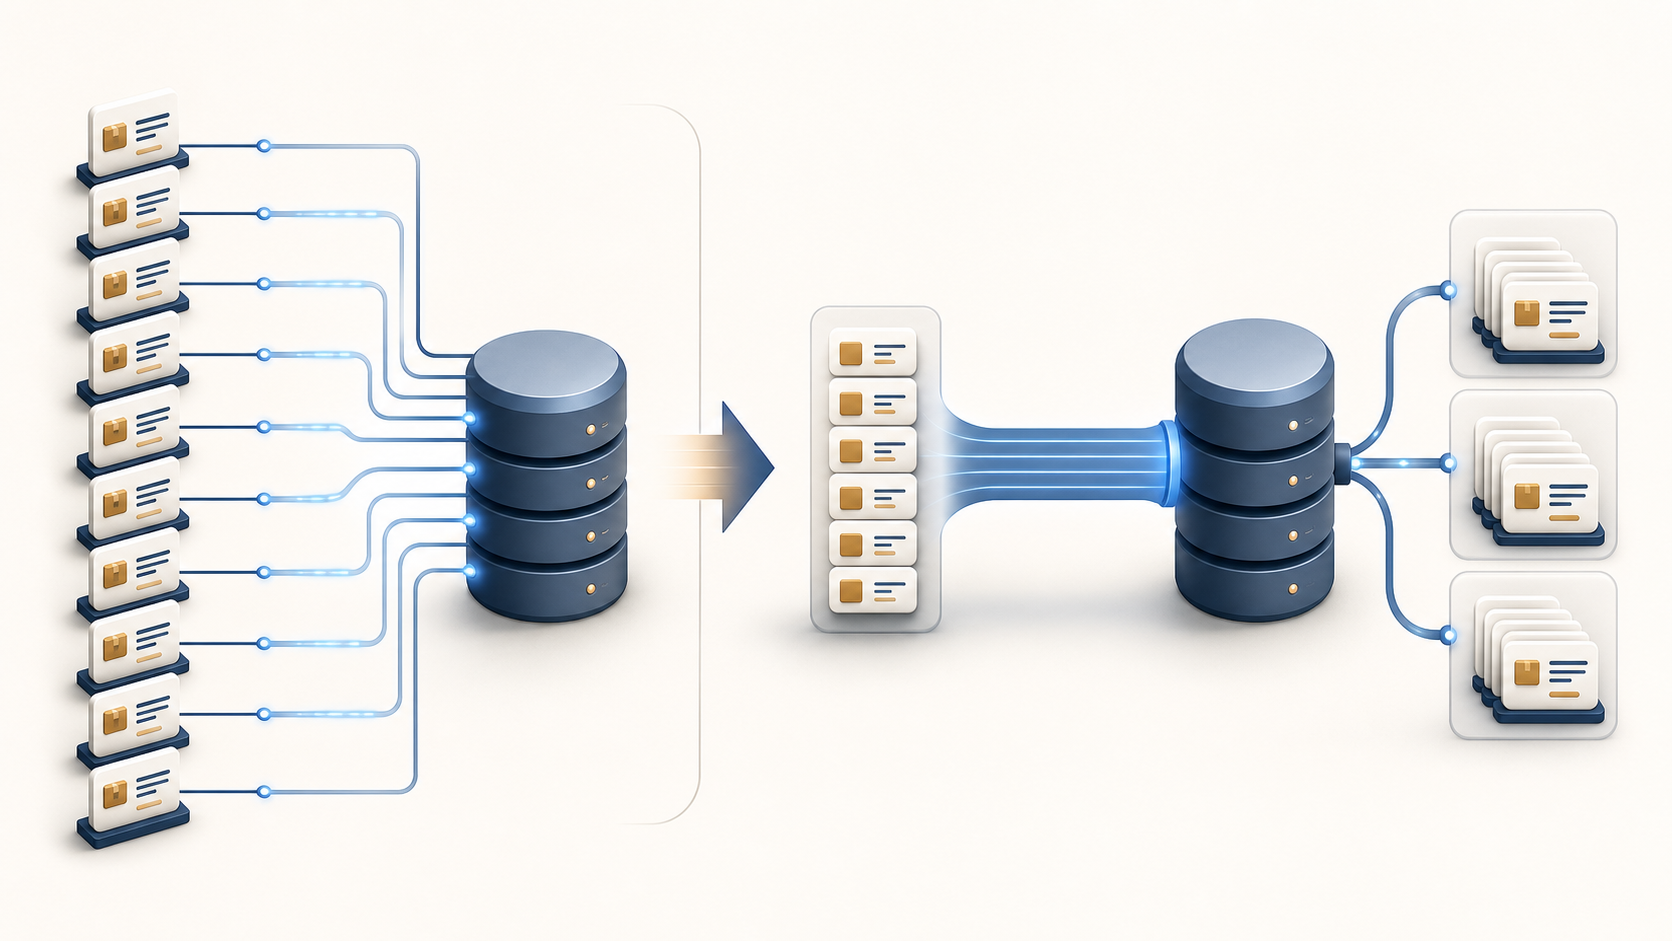
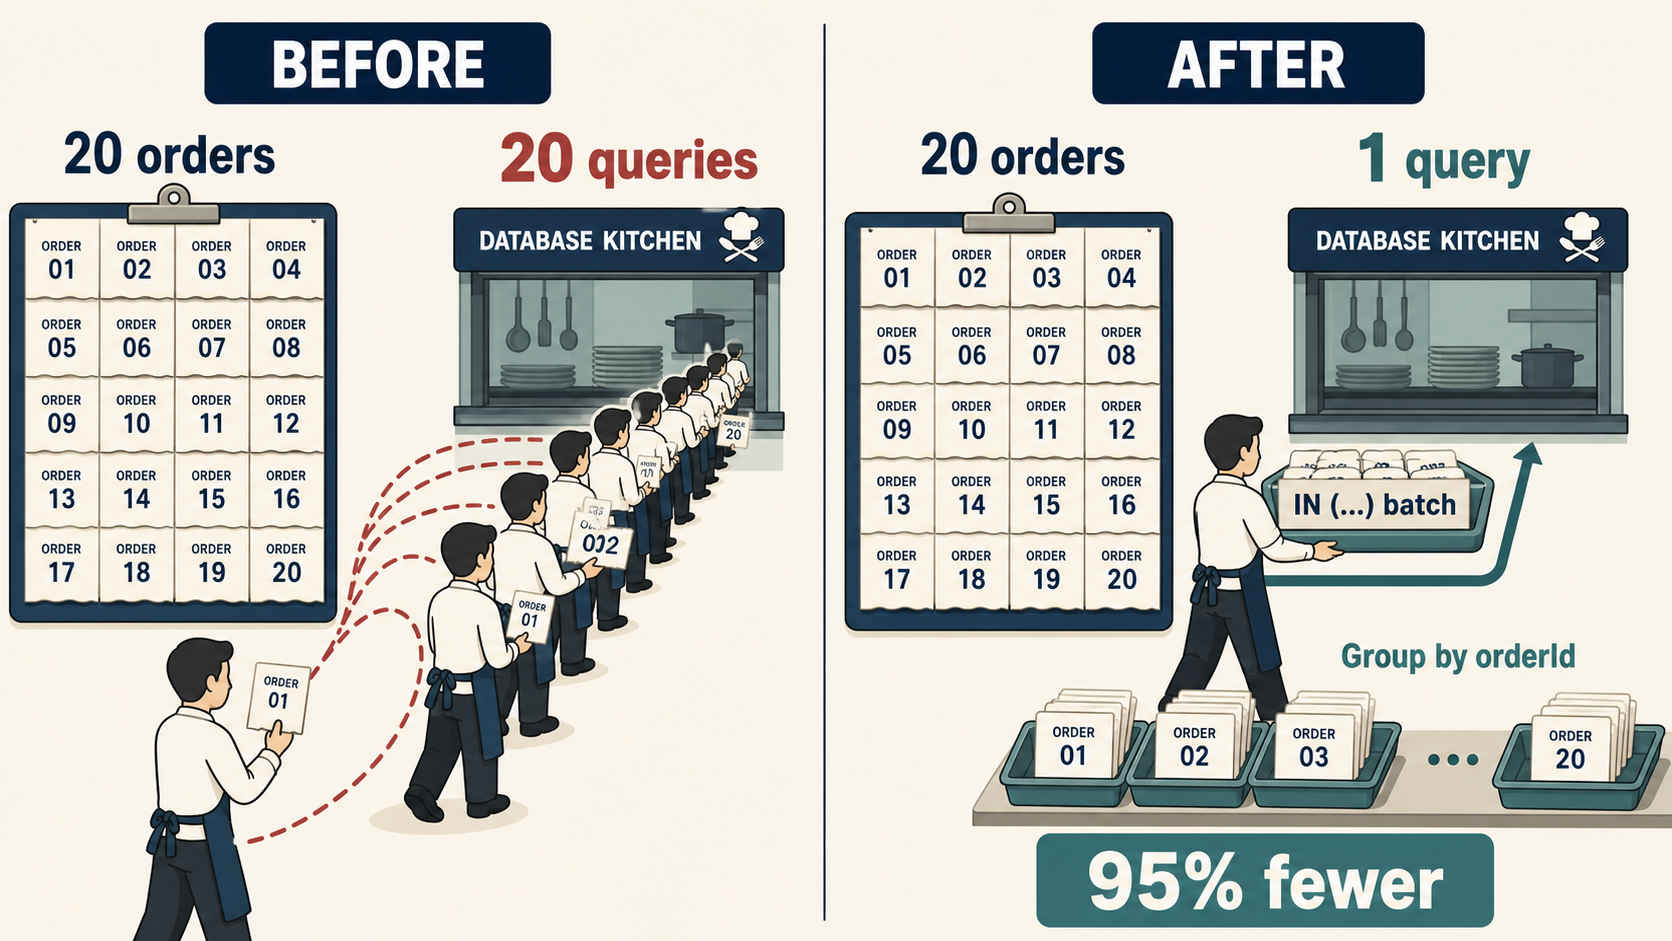
Improve portfolio problem-solving visuals

diff --git a/portfolio.html b/portfolio.html
@@ -333,7 +333,7 @@
       grid-template-rows: auto 1fr;
       min-height: 0;
       border: 2px solid #0e2b4c;
-      background: rgba(255, 252, 244, 0.58);
+      background: #fbfaf7;
       overflow: hidden;
     }
 
@@ -352,8 +352,45 @@
       width: 100%;
       height: 100%;
       min-height: 0;
-      object-fit: cover;
+      object-fit: contain;
       object-position: top center;
+    }
+
+    #slide-20 .overview-grid {
+      margin-top: 0.16in !important;
+    }
+
+    #slide-20 .shot-panel {
+      min-height: 5.05in;
+    }
+
+    #slide-20 .info-panel {
+      gap: 0.07in;
+    }
+
+    #slide-20 .info-card {
+      padding: 0.12in 0.16in;
+    }
+
+    #slide-20 .info-card h3 {
+      margin-bottom: 6px;
+      font-size: 18px;
+    }
+
+    #slide-20 .info-card p,
+    #slide-20 .info-card li {
+      font-size: 15.5px;
+      line-height: 1.36;
+    }
+
+    #slide-20 .tag-list {
+      gap: 6px;
+      margin-top: 6px;
+    }
+
+    #slide-20 .tag {
+      padding: 4px 8px;
+      font-size: 12.5px;
     }
 
     .screenshot-grid {
@@ -466,6 +503,7 @@
 
     .diagram-card {
       display: flex;
+      flex-direction: column;
       align-items: center;
       justify-content: center;
       min-height: 5.42in;
@@ -1015,7 +1053,8 @@
     .generated-visual {
       position: relative;
       width: 100%;
-      min-height: 5.05in;
+      height: 4.82in;
+      min-height: 4.82in;
       overflow: hidden;
       border: 2px solid #0e2b4c;
       background: #fbf7ef;
@@ -1025,8 +1064,19 @@
       display: block;
       width: 100%;
       height: 100%;
-      min-height: 5.05in;
+      min-height: 4.82in;
       object-fit: contain;
+    }
+
+    .image-credit {
+      width: 100%;
+      margin: 0.055in 0 0;
+      color: #8a96a4;
+      font-size: 10.5px;
+      font-weight: 500;
+      line-height: 1.25;
+      letter-spacing: 0;
+      text-align: center;
     }
 
     .visual-chip {
@@ -1459,25 +1509,10 @@
       <h2 class="title-md">XML·Compose 혼용 UI 개선 / State Hoisting 구조화</h2>
       <div class="problem-layout" style="margin-top: 0.24in;">
         <div class="diagram-card">
-          <div class="layer-diagram">
-            <div class="layer-grid">
-              <div class="layer-box">
-                <div class="layer-title">기존 화면</div>
-                <div class="messy-item">XML View</div>
-                <div class="messy-item">Compose UI</div>
-                <div class="messy-item">ViewModel / Navigation</div>
-                <div class="messy-item">텍스트·버튼·상태 처리</div>
-              </div>
-              <div class="layer-arrow">→</div>
-              <div class="layer-box">
-                <div class="layer-title">재구성한 화면</div>
-                <div class="clean-layer is-core">Route<small>상태 생성 · 의미 결정</small></div>
-                <div class="clean-layer">Screen<small>레이아웃 조립</small></div>
-                <div class="clean-layer">Component<small>재사용 UI 조각</small></div>
-              </div>
-            </div>
-            <div class="flow-caption">화면별 혼재 로직을 계층으로 분리해 수정 범위와 중복을 줄임</div>
+          <div class="generated-visual">
+            <img src="public/screenshot/naenun-state-hoisting-visual.png" alt="한 화면의 네 가지 책임을 외부 상태 제어와 세 계층으로 분리한 전후 이미지" />
           </div>
+          <p class="image-credit">ChatGPT로 제작한 이미지입니다.</p>
         </div>
         <div class="content-stack">
           <div class="compact-card">
@@ -1521,42 +1556,10 @@
       <h2 class="title-md">레거시 패키지 구조 재편</h2>
       <div class="problem-layout" style="margin-top: 0.24in;">
         <div class="diagram-card">
-          <div class="package-diagram">
-            <div class="package-compare">
-              <div class="package-box">
-                <div class="diagram-title">기존 구조</div>
-                <div class="legacy-map">
-                  <div class="legacy-chip" style="left: 12px; top: 18px;">AppActivity</div>
-                  <div class="legacy-chip" style="right: 20px; top: 36px;">Screen</div>
-                  <div class="legacy-chip" style="left: 64px; top: 112px;">Navigation</div>
-                  <div class="legacy-chip" style="right: 38px; top: 138px;">Manager</div>
-                  <div class="legacy-chip" style="left: 22px; bottom: 44px;">ViewModel</div>
-                  <div class="legacy-chip" style="right: 10px; bottom: 22px;">UI Model</div>
-                </div>
-              </div>
-              <div class="layer-arrow">→</div>
-              <div class="package-box">
-                <div class="diagram-title">기능·계층 기준 재구성</div>
-                <div class="feature-stack">
-                  <div class="feature-layer is-core">Feature<small>기능 단위 분리</small></div>
-                  <div class="feature-row">
-                    <div class="feature-layer">Route</div>
-                    <div class="feature-layer">Screen</div>
-                  </div>
-                  <div class="feature-row">
-                    <div class="feature-layer">Component</div>
-                    <div class="feature-layer">ViewModel</div>
-                  </div>
-                  <div class="feature-row">
-                    <div class="feature-layer">Domain</div>
-                    <div class="feature-layer">Model</div>
-                  </div>
-                  <div class="feature-layer is-core">Core<small>공통 로직 분리</small></div>
-                </div>
-              </div>
-            </div>
-            <div class="flow-caption">뒤섞인 화면·로직·데이터를 기능 단위로 나누고 의존성 방향을 명확히 정리</div>
+          <div class="generated-visual">
+            <img src="public/screenshot/naenun-package-refactor-visual.png" alt="순환 참조가 얽힌 레거시 서랍을 Feature와 Core 구조로 정리한 전후 이미지" />
           </div>
+          <p class="image-credit">ChatGPT로 제작한 이미지입니다.</p>
         </div>
         <div class="content-stack">
           <div class="compact-card">
@@ -1597,26 +1600,10 @@
       <h2 class="title-md">메모리 누수 개선</h2>
       <div class="problem-layout" style="margin-top: 0.24in;">
         <div class="diagram-card">
-          <div class="leak-diagram">
-            <div class="leak-flow">
-              <div class="leak-column">
-                <div class="diagram-title">누수 원인</div>
-                <div class="leak-step">Singleton 남용<small>긴 생명주기 객체</small></div>
-                <div class="leak-step">Activity Context 참조<small>짧은 생명주기 보유</small></div>
-                <div class="leak-step">Listener 미해제<small>Callback 참조 유지</small></div>
-                <div class="leak-step">순환 참조<small>객체 해제 지연</small></div>
-              </div>
-              <div class="layer-arrow">→</div>
-              <div class="leak-column">
-                <div class="diagram-title">정리한 구조</div>
-                <div class="leak-step is-core">Application Context<small>Context 보유 범위 조정</small></div>
-                <div class="leak-step">Hilt DI<small>Singleton 사용 최소화</small></div>
-                <div class="leak-step">onDispose / onCleared<small>Listener·리소스 해제</small></div>
-                <div class="leak-step">WeakReference<small>순환 참조 완화</small></div>
-              </div>
-            </div>
-            <div class="flow-caption">생명주기보다 오래 남는 참조를 제거해 장시간 실행 환경의 메모리 누수 위험을 낮춤</div>
+          <div class="generated-visual">
+            <img src="public/screenshot/naenun-memory-leak-visual.png" alt="종료된 Activity에 남은 참조와 Listener를 해제해 메모리를 반환한 전후 이미지" />
           </div>
+          <p class="image-credit">ChatGPT로 제작한 이미지입니다.</p>
         </div>
         <div class="content-stack">
           <div class="compact-card">
@@ -1752,31 +1739,10 @@
       <h2 class="title-md">6개 API 병렬 처리와 부분 실패 대응</h2>
       <div class="problem-layout" style="margin-top: 0.24in;">
         <div class="diagram-card">
-          <div class="timeline-diagram">
-            <div class="timeline-panel">
-              <div class="timeline-head"><span>Before · 순차 호출</span><span>약 356ms</span></div>
-              <div class="timeline-track">
-                <div class="timeline-lane"><span class="lane-label">CPU</span><span class="lane-line"><span class="time-bar" style="left: 0%; width: 16%;"></span></span></div>
-                <div class="timeline-lane"><span class="lane-label">Memory</span><span class="lane-line"><span class="time-bar" style="left: 17%; width: 16%;"></span></span></div>
-                <div class="timeline-lane"><span class="lane-label">Network R</span><span class="lane-line"><span class="time-bar" style="left: 34%; width: 16%;"></span></span></div>
-                <div class="timeline-lane"><span class="lane-label">Network T</span><span class="lane-line"><span class="time-bar" style="left: 51%; width: 16%;"></span></span></div>
-                <div class="timeline-lane"><span class="lane-label">Event</span><span class="lane-line"><span class="time-bar" style="left: 68%; width: 15%;"></span></span></div>
-                <div class="timeline-lane"><span class="lane-label">AI</span><span class="lane-line"><span class="time-bar" style="left: 84%; width: 16%;"></span></span></div>
-              </div>
-            </div>
-            <div class="timeline-panel">
-              <div class="timeline-head"><span>After · supervisorScope + async</span><span>약 156ms</span></div>
-              <div class="timeline-track">
-                <div class="timeline-lane"><span class="lane-label">CPU</span><span class="lane-line"><span class="time-bar is-active" style="left: 0%; width: 40%;"></span></span></div>
-                <div class="timeline-lane"><span class="lane-label">Memory</span><span class="lane-line"><span class="time-bar is-active" style="left: 0%; width: 38%;"></span></span></div>
-                <div class="timeline-lane"><span class="lane-label">Network R</span><span class="lane-line"><span class="time-bar is-active" style="left: 0%; width: 36%;"></span></span></div>
-                <div class="timeline-lane"><span class="lane-label">Network T</span><span class="lane-line"><span class="time-bar is-active" style="left: 0%; width: 37%;"></span></span></div>
-                <div class="timeline-lane"><span class="lane-label">Event</span><span class="lane-line"><span class="time-bar is-active" style="left: 0%; width: 34%;"></span></span></div>
-                <div class="timeline-lane"><span class="lane-label">AI</span><span class="lane-line"><span class="time-bar is-active" style="left: 0%; width: 40%;"></span></span></div>
-              </div>
-              <div class="timeline-result">동시에 시작 · 부분 실패 허용 · 가장 늦은 작업 기준 완료 · 56% 단축</div>
-            </div>
+          <div class="generated-visual">
+            <img src="public/screenshot/more-parallel-api-visual.png" alt="6개 API를 한 줄 대기에서 병렬 처리로 바꿔 356ms를 156ms로 단축한 전후 이미지" />
           </div>
+          <p class="image-credit">ChatGPT로 제작한 이미지입니다.</p>
         </div>
         <div class="content-stack">
           <div class="compact-card">
@@ -1821,22 +1787,10 @@
       <h2 class="title-md">Convention Plugin 기반 멀티 모듈 빌드 표준화</h2>
       <div class="problem-layout" style="margin-top: 0.24in;">
         <div class="diagram-card">
-          <div class="build-diagram">
-            <div class="build-core">build-logic<small>공통 빌드 설정과 의존성을 모듈 밖에서 중앙 관리</small></div>
-            <div class="plugin-grid">
-              <div class="plugin-tile">mori.android.feature<small>Compose · Hilt · Orbit · Test</small></div>
-              <div class="plugin-tile">mori.android.core<small>Android/Kotlin 기본 설정</small></div>
-              <div class="plugin-tile">mori.android.network<small>Retrofit · OkHttp · MockWebServer</small></div>
-              <div class="plugin-tile">mori.android.datastore<small>DataStore · Serialization</small></div>
-            </div>
-            <div class="module-strip">
-              <div class="module-pill">feature-dashboard</div>
-              <div class="module-pill">feature-instance</div>
-              <div class="module-pill">core-domain</div>
-              <div class="module-pill">core-network</div>
-            </div>
-            <div class="flow-caption">모듈은 플러그인 한 줄만 적용하고, 설정 변경은 build-logic 한 곳에서 반영</div>
+          <div class="generated-visual">
+            <img src="public/screenshot/more-build-logic-visual.png" alt="하나의 Convention Plugin 설정을 모든 모듈에 동일하게 적용하는 이미지" />
           </div>
+          <p class="image-credit">ChatGPT로 제작한 이미지입니다.</p>
         </div>
         <div class="content-stack">
           <div class="compact-card">
@@ -1970,22 +1924,10 @@
       <h2 class="title-md">Token 재발급과 인증 예외 처리 구조화</h2>
       <div class="problem-layout" style="margin-top: 0.24in;">
         <div class="diagram-card">
-          <div class="flow-diagram">
-            <div class="flow-row">
-              <div class="flow-node">UI / Domain</div>
-              <div class="flow-arrow">→</div>
-              <div class="flow-node is-accent">AuthManager<small>메모리 캐시·로그아웃 이벤트</small></div>
-              <div class="flow-arrow">→</div>
-              <div class="flow-node">API</div>
-            </div>
-            <div class="flow-row"><div class="flow-arrow">↓</div></div>
-            <div class="flow-node">AuthDataStore<small>토큰·유저 정보 영속화</small></div>
-            <div class="flow-compare">
-              <div class="flow-node">AuthInterceptor<small>Authorization 헤더 자동 추가</small></div>
-              <div class="flow-node">TokenAuthenticator<small>401 응답 시 재발급·재시도</small></div>
-            </div>
-            <div class="flow-caption">토큰 저장, 헤더 주입, 401 재시도, 재발급 실패, 로그아웃 사유 전달을 계층별로 분리</div>
+          <div class="generated-visual">
+            <img src="public/screenshot/glim-auth-flow-visual.png" alt="만료된 Access Token을 재발급해 한 번 재시도하고 Refresh 만료 시 로그아웃하는 이미지" />
           </div>
+          <p class="image-credit">ChatGPT로 제작한 이미지입니다.</p>
         </div>
         <div class="content-stack">
           <div class="compact-card">
@@ -2028,20 +1970,10 @@
       <h2 class="title-md">Orbit MVI 기반 상태 관리와 테스트 가능성 확보</h2>
       <div class="problem-layout" style="margin-top: 0.24in;">
         <div class="diagram-card">
-          <div class="mvi-diagram">
-            <div class="mvi-node" style="left: 22px; top: 34px;">User Input<small>이메일·비밀번호 변경</small></div>
-            <div class="mvi-arrow" style="left: 194px; top: 70px;">→</div>
-            <div class="mvi-node is-core" style="left: 242px; top: 34px;">Intent<small>ViewModel 진입점</small></div>
-            <div class="mvi-arrow" style="left: 416px; top: 70px;">→</div>
-            <div class="mvi-node" style="left: 464px; top: 34px;">Reduce<small>상태 변경</small></div>
-            <div class="mvi-arrow" style="left: 520px; top: 142px;">↓</div>
-            <div class="mvi-node" style="left: 464px; top: 206px;">UiState<small>검증·로딩·에러</small></div>
-            <div class="mvi-arrow" style="left: 416px; top: 242px;">←</div>
-            <div class="mvi-node is-core" style="left: 242px; top: 206px;">ContainerHost<small>State + SideEffect</small></div>
-            <div class="mvi-arrow" style="left: 194px; top: 242px;">←</div>
-            <div class="mvi-node" style="left: 22px; top: 206px;">Screen<small>상태 구독·렌더링</small></div>
-            <div class="mvi-branch">SideEffect는 Toast / Navigation 같은 일회성 이벤트로 분리</div>
+          <div class="generated-visual">
+            <img src="public/screenshot/glim-mvi-test-visual.png" alt="여러 Intent와 Reducer 클래스를 Orbit Container로 통합하고 ViewModel을 테스트하는 전후 이미지" />
           </div>
+          <p class="image-credit">ChatGPT로 제작한 이미지입니다.</p>
         </div>
         <div class="content-stack">
           <div class="compact-card">
@@ -2087,35 +2019,10 @@
       <h2 class="title-md">Channel 기반 Navigator로 화면-네비게이션 결합 분리</h2>
       <div class="problem-layout" style="margin-top: 0.24in;">
         <div class="diagram-card">
-          <div class="navigator-diagram">
-            <div class="nav-lane">
-              <div class="nav-label">Feature</div>
-              <div class="nav-body">
-                <div class="nav-chip">Screen</div>
-                <div class="flow-arrow">→</div>
-                <div class="nav-chip">ViewModel<small>navigate 호출</small></div>
-              </div>
-            </div>
-            <div class="nav-divider">Screen / ViewModel은 NavBackStack을 직접 모름</div>
-            <div class="nav-lane">
-              <div class="nav-label">Navigation Core</div>
-              <div class="nav-body">
-                <div class="nav-chip is-core">Navigator</div>
-                <div class="flow-arrow">→</div>
-                <div class="nav-chip is-core">Channel&lt;InternalRoute&gt;</div>
-                <div class="flow-arrow">→</div>
-                <div class="nav-chip">NavigatorVM</div>
-              </div>
-            </div>
-            <div class="nav-lane">
-              <div class="nav-label">App Shell</div>
-              <div class="nav-body">
-                <div class="nav-chip">LaunchedNavigator</div>
-                <div class="flow-arrow">→</div>
-                <div class="nav-chip">NavBackStack 조작</div>
-              </div>
-            </div>
+          <div class="generated-visual">
+            <img src="public/screenshot/glim-navigator-channel-visual.png" alt="Feature의 직접 BackStack 접근을 끊고 Channel과 Navigator가 전환을 담당하는 이미지" />
           </div>
+          <p class="image-credit">ChatGPT로 제작한 이미지입니다.</p>
         </div>
         <div class="content-stack">
           <div class="compact-card">
@@ -2256,14 +2163,9 @@
       <div class="problem-layout" style="margin-top: 0.24in;">
         <div class="diagram-card">
           <div class="generated-visual">
-            <img src="public/screenshot/pubburi-batch-query-visual.png" alt="주문 상세 조회 batch query 구조 시각화" />
-            <div class="visual-chip is-large" style="left: 0.18in; top: 0.18in;">Before</div>
-            <div class="visual-chip is-large is-dark" style="right: 0.18in; top: 0.18in;">After</div>
-            <div class="visual-chip is-danger" style="left: 1.18in; bottom: 0.28in;">20회</div>
-            <div class="visual-chip is-dark" style="left: 3.02in; bottom: 0.28in;">1회</div>
-            <div class="visual-chip" style="left: 2.22in; top: 2.28in;">Batch IN query</div>
-            <div class="visual-chip" style="right: 0.26in; bottom: 0.34in;">Group by orderId</div>
+            <img src="public/screenshot/pubburi-batch-query-visual.png" alt="주문 20건을 개별 조회하다 IN batch 한 번으로 묶어 95퍼센트 줄인 전후 이미지" />
           </div>
+          <p class="image-credit">ChatGPT로 제작한 이미지입니다.</p>
         </div>
         <div class="content-stack">
           <div class="compact-card">
@@ -2308,14 +2210,9 @@
       <div class="problem-layout" style="margin-top: 0.24in;">
         <div class="diagram-card">
           <div class="generated-visual">
-            <img src="public/screenshot/pubburi-transaction-visual.png" alt="주문 생성 트랜잭션과 rollback 구조 시각화" />
-            <div class="visual-chip is-dark" style="left: 0.2in; top: 0.18in;">Transaction</div>
-            <div class="visual-chip" style="left: 0.72in; top: 2.25in;">Order</div>
-            <div class="visual-chip" style="left: 2.1in; top: 2.05in;">Details</div>
-            <div class="visual-chip" style="right: 1.42in; top: 1.82in;">Product Count</div>
-            <div class="visual-chip" style="right: 0.52in; top: 2.72in;">Stamp</div>
-            <div class="visual-chip is-danger is-large" style="left: 2.72in; bottom: 0.46in;">Rollback</div>
+            <img src="public/screenshot/pubburi-transaction-visual.png" alt="주문 생성 네 단계 중 0 rows 실패가 발생하면 전체를 rollback해 부분 저장을 막는 이미지" />
           </div>
+          <p class="image-credit">ChatGPT로 제작한 이미지입니다.</p>
         </div>
         <div class="content-stack">
           <div class="compact-card">